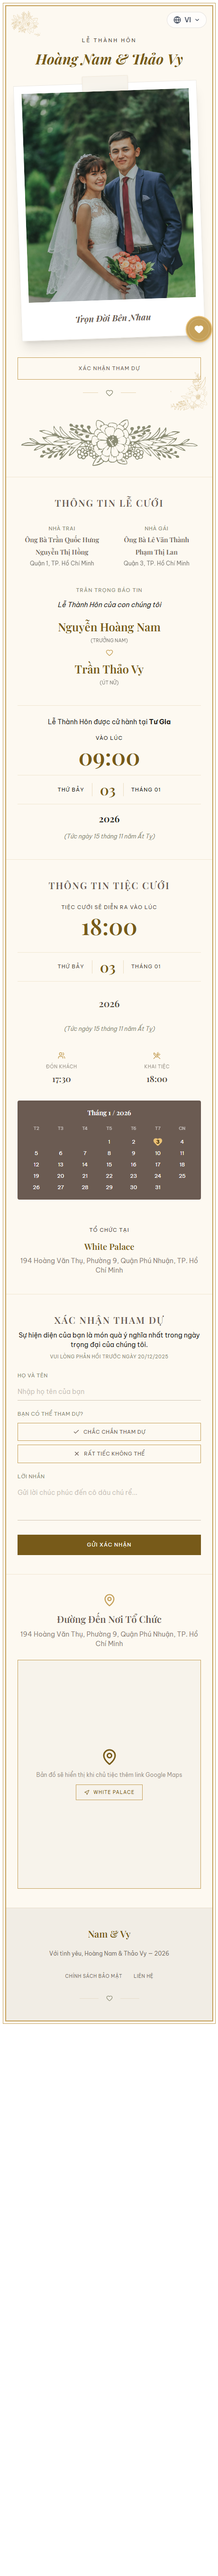
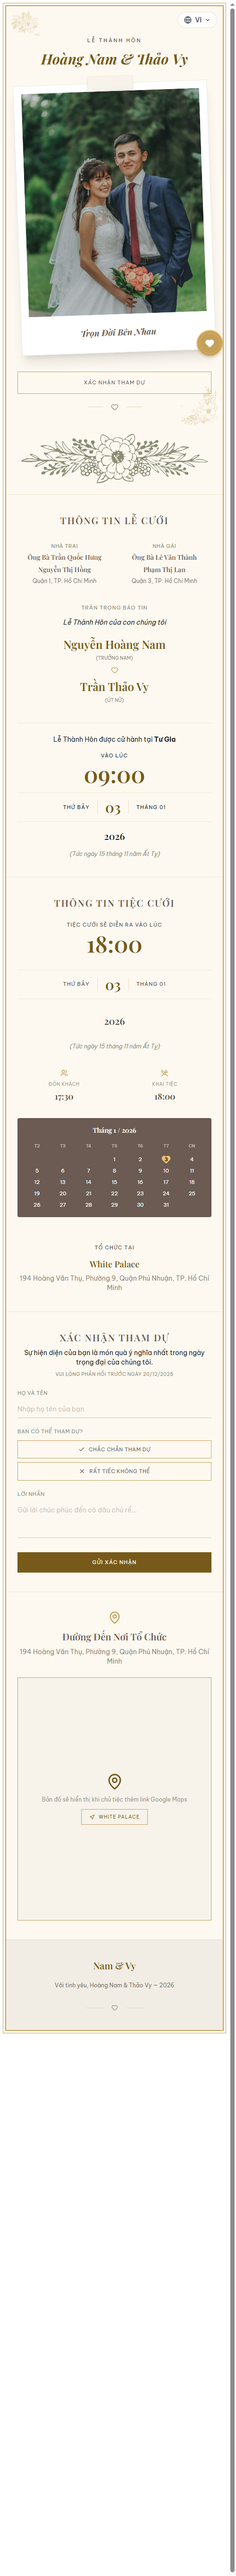
feat: shared calendar hook + font/README cleanup for wedding-4
- Add _shared/useCalendarMonth.ts: computes a month's calendar grid
  (leading blanks, days-in-month, weekday-of-day) from year+month, so
  templates stop hand-deriving these by mental math. Wedding-4 now
  calls it instead of the two manually-computed CALENDAR_LEAD_OFFSET/
  CALENDAR_DAYS_IN_MONTH constants.
- Verify Playfair Display + Be Vietnam Pro render Vietnamese diacritics
  correctly (checked via 2x zoomed screenshot) and document the finding
  plus a concrete list of risky script fonts to avoid in wedding/README.md.
- Expand wedding/README.md into a fuller spec covering the single-card
  layout, the symmetric groom/bride-family grid rule (corrected — it
  must stay 2 columns even on mobile), required Google Maps section,
  and the selectable-track music player pattern, so future template
  work in this category has a clear checklist to follow.
- Remove the placeholder "Chính Sách Bảo Mật"/"Liên Hệ" footer links
  (dead '#' anchors) and their unused i18n fields.

diff --git a/src/data/Template/wedding/Wedding-4/index.tsx b/src/data/Template/wedding/Wedding-4/index.tsx
@@ -5,6 +5,7 @@ import { deepMerge } from '../../../../utils/deepMerge';
 import { toGoogleMapsEmbedUrl } from '../../../../utils/googleMaps';
 import LanguageSwitcher, { useTemplateLang } from '../../_shared/LanguageSwitcher';
 import Reveal from '../../_shared/Reveal';
+import { useCalendarMonth } from '../../_shared/useCalendarMonth';
 import viJson from './i18n/vi.json';
 import enJson from './i18n/en.json';
 import zhJson from './i18n/zh.json';
@@ -19,9 +20,10 @@ type Lang = (typeof SUPPORTED_LANGS)[number];
 const translations: Record<Lang, typeof viJson> = { vi: viJson, en: enJson, zh: zhJson, ko: koJson };
 interface Props { lang?: string }
 
-// Lịch tháng 01/2026: ngày 1 rơi vào Thứ Năm → cột tuần bắt đầu Thứ Hai nên có 3 ô trống đầu bảng
-const CALENDAR_LEAD_OFFSET = 3;
-const CALENDAR_DAYS_IN_MONTH = 31;
+// Ngày cưới thật dùng để tính lịch mini — đổi 2 số này khi đổi ngày cưới, useCalendarMonth
+// tự tính đúng thứ trong tuần + số ô trống đầu bảng, không cần tự nhẩm tay.
+const WEDDING_YEAR = 2026;
+const WEDDING_MONTH = 1; // 1–12
 
 export default function Wedding4({ lang = 'vi' }: Props) {
   const { activeLang, setActiveLang } = useTemplateLang(lang as Lang, SUPPORTED_LANGS);
@@ -32,9 +34,7 @@ export default function Wedding4({ lang = 'vi' }: Props) {
   const [attending, setAttending] = useState<'yes' | 'no' | null>(null);
 
   const highlightDay = Number(t.events.day);
-  const calendarDays = Array.from({ length: CALENDAR_LEAD_OFFSET }, () => null).concat(
-    Array.from({ length: CALENDAR_DAYS_IN_MONTH }, (_, i) => i + 1),
-  );
+  const { cells: calendarDays } = useCalendarMonth({ year: WEDDING_YEAR, month: WEDDING_MONTH });
 
   // ── Danh sách nhạc nền — khách bấm chọn 1 bài trong list thay vì chỉ 1 bài autoplay cố định.
   // `src` để trống cho tới khi chủ tiệc tự thêm link file mp3 qua panel tùy chỉnh (giống cách
@@ -341,11 +341,7 @@ export default function Wedding4({ lang = 'vi' }: Props) {
             {/* Footer */}
             <Reveal variant="fade" as="footer" data-section="footer" className="bg-[#f1ede5] border-t border-[#C5A059]/20 flex flex-col items-center gap-2 py-10 px-6">
               <span data-field="footer.brand" className="font-display text-xl text-[#775a19] mb-3">{t.footer.brand}</span>
-              <p data-field="footer.tagline" className="text-xs text-center text-[#4e4639]/80 mb-6">{t.footer.tagline}</p>
-              <div className="flex gap-6">
-                <a data-field="footer.privacy" className="text-[10px] uppercase tracking-wider text-[#4e4639]/80 hover:text-[#775a19] transition-colors" href="#">{t.footer.privacy}</a>
-                <a data-field="footer.contact" className="text-[10px] uppercase tracking-wider text-[#4e4639]/80 hover:text-[#775a19] transition-colors" href="#">{t.footer.contact}</a>
-              </div>
+              <p data-field="footer.tagline" className="text-xs text-center text-[#4e4639]/80">{t.footer.tagline}</p>
               <div className="mt-6 flex items-center gap-4">
                 <div className="w-10 h-px bg-[#C5A059]/20" />
                 <Heart aria-hidden className="w-3.5 h-3.5 text-[#8B8C74]" />

diff --git a/src/data/Template/_shared/useCalendarMonth.ts b/src/data/Template/_shared/useCalendarMonth.ts
@@ -1,0 +1,60 @@
+/**
+ * ─── useCalendarMonth — tự tính lưới lịch tháng từ 1 ngày cụ thể ─────────────────
+ *
+ * Dùng khi template cần vẽ 1 khối lịch mini (kiểu "Save the Date" / lịch tháng
+ * highlight ngày cưới) — chỉ cần truyền năm + tháng, hook tự tính đúng:
+ *   - Ô trống cần chèn trước ngày 1 (để cột "Thứ" thẳng hàng)
+ *   - Số ngày thật của tháng đó (28-31, tự xử lý năm nhuận)
+ *   - Thứ trong tuần của bất kỳ ngày nào trong tháng
+ *
+ * Trước đây các template tự nhẩm tay 2 hằng số này (vd `CALENDAR_LEAD_OFFSET = 3`
+ * kèm comment giải thích "ngày 1 rơi vào Thứ Năm...") — dễ tính sai khi đổi ngày
+ * cưới và không ai kiểm chứng lại. Hook này thay hoàn toàn phần tính tay đó bằng
+ * `Date` chuẩn của JS.
+ *
+ * Cách dùng:
+ *   const { cells } = useCalendarMonth({ year: 2026, month: 1 }); // tháng 1-12
+ *   {cells.map((day, i) => day === null ? <span key={i} /> : <span key={i}>{day}</span>)}
+ */
+import { useMemo } from 'react';
+
+export interface CalendarMonthOptions {
+  /** Năm đầy đủ, vd 2026 */
+  year: number;
+  /** Tháng 1–12 (KHÔNG phải 0–11 kiểu `Date` gốc của JS — cố ý để gọi hook cho tự nhiên) */
+  month: number;
+  /** 1 = tuần bắt đầu Thứ Hai (chuẩn lịch Việt Nam, mặc định). 0 = tuần bắt đầu Chủ Nhật. */
+  weekStartsOn?: 0 | 1;
+}
+
+export interface CalendarMonthResult {
+  /** Số ngày thật của tháng (đã tự xử lý năm nhuận) */
+  daysInMonth: number;
+  /** Số ô trống cần chèn trước ngày 1 để đúng cột thứ trong tuần */
+  leadOffset: number;
+  /** Toàn bộ ô lịch theo đúng thứ tự hiển thị (7 cột/hàng) — `null` = ô trống đầu bảng */
+  cells: (number | null)[];
+  /** Thứ trong tuần (0=Chủ Nhật..6=Thứ Bảy, chuẩn `Date.getDay()`) của 1 ngày trong tháng này */
+  weekdayOf: (day: number) => number;
+}
+
+export function useCalendarMonth({
+  year,
+  month,
+  weekStartsOn = 1,
+}: CalendarMonthOptions): CalendarMonthResult {
+  return useMemo(() => {
+    const firstWeekday = new Date(year, month - 1, 1).getDay(); // 0=CN..6=T7
+    const daysInMonth = new Date(year, month, 0).getDate(); // ngày 0 của tháng sau = ngày cuối tháng này
+    const leadOffset = weekStartsOn === 1 ? (firstWeekday + 6) % 7 : firstWeekday;
+
+    const cells: (number | null)[] = [
+      ...Array.from({ length: leadOffset }, () => null),
+      ...Array.from({ length: daysInMonth }, (_, i) => i + 1),
+    ];
+
+    const weekdayOf = (day: number) => new Date(year, month - 1, day).getDay();
+
+    return { daysInMonth, leadOffset, cells, weekdayOf };
+  }, [year, month, weekStartsOn]);
+}

diff --git a/src/data/Template/wedding/README.md b/src/data/Template/wedding/README.md
@@ -146,15 +146,45 @@ imageSlots: [
 ## Lưu ý thiết kế đặc biệt cho Wedding
 
 - **Countdown timer:** Bắt buộc phải có — tính từ `Date.now()` đến `weddingDate` trong vi.json
-- **Nhạc nền:** Optional nhưng rất được yêu thích — nên có nút bật/tắt rõ ràng
+- **Nhạc nền:** Optional nhưng rất được yêu thích. Ưu tiên kiểu **list nhạc cho khách tự
+  chọn bài** (xem `Wedding-4/index.tsx` — nút tròn nổi mở panel liệt kê track, bấm 1 bài
+  để phát/dừng) thay vì chỉ 1 bài autoplay cố định — sinh động hơn và khách có thể đổi
+  bài nếu không thích bài đang phát. `src` từng bài để trống sẵn trong `i18n/*.json`, chủ
+  tiệc tự điền link file mp3 sau qua panel tùy chỉnh (giống hệt cơ chế `mapUrl`, không
+  cần thêm capability upload nào mới). Nút nổi đặt góc **dưới-TRÁI** (`fixed bottom-5
+  left-5`) — góc dưới-phải đã bị badge "Made with vngoweb" của `PublicSitePage.tsx` chiếm
+  cố định trên MỌI site đã publish (`fixed bottom-5 right-5`), đặt cùng chỗ sẽ đè lên nhau.
 - **Floral decoration:** Dùng SVG hoặc PNG hoa lá trang trí góc — đặc trưng của thiệp cưới
 - **Animation nhẹ:** Fade-in, float, confetti — tạo cảm xúc khi mở thiệp lần đầu
 - **Print-friendly:** Một số user muốn in ra — tránh nền tối, background ảnh lớn
-- **Font:** Chỉ dùng font đã load sẵn toàn cục ở `index.html` gốc — `font-display` (Playfair
-  Display, serif sang trọng, đủ dấu tiếng Việt) cho tên đôi/tiêu đề, `font-sans`/`font-inter`
-  (Be Vietnam Pro) cho phần thân. KHÔNG tự thêm `<link>` Google Fonts khác (Cormorant Garamond,
-  Great Vibes...) trong `index.tsx` — React component không có chỗ nào đáng tin cậy để inject
-  vào `<head>`, và mỗi font thêm riêng cho 1 template sẽ không xuất hiện khi site đã publish.
+- **Font — chỉ dùng 2 font đã load sẵn toàn cục ở `index.html` gốc, đã tự kiểm tra tận
+  mắt (chụp màn hình phóng to @2x, dấu thanh/dấu mũ tiếng Việt không vỡ, không tofu) nên
+  yên tâm dùng cho MỌI template wedding tiếp theo:**
+  - `font-display` (Playfair Display) — cho tên đôi/tiêu đề lớn, chỉ load sẵn 2 style:
+    normal weight 600/700/800/900 và **italic CHỈ ở weight 700**. Dùng `italic` mà không
+    ép `font-bold`/`font-normal` cụ thể là an toàn (trình duyệt tự khớp về weight 700
+    italic có sẵn); đừng ép `font-weight` nhẹ hơn cho chữ `italic` vì face đó không tồn
+    tại, trình duyệt sẽ phải chọn lại theo thuật toán riêng, không kiểm soát được.
+  - `font-sans` / `font-inter` (Be Vietnam Pro) — cho toàn bộ phần thân, font thiết kế
+    riêng cho tiếng Việt nên luôn an toàn ở mọi weight đã load (400/500/600/700).
+  - **TUYỆT ĐỐI không tự thêm `<link>` Google Fonts khác** (Cormorant Garamond, Great
+    Vibes, Dancing Script, Alex Brush, Sacramento, Parisienne, Playball...) trong
+    `index.tsx` dù trông "sang" hơn cho thiệp cưới — React component không có chỗ nào
+    đáng tin cậy để inject vào `<head>` (không xuất hiện khi site đã publish), và phần
+    lớn font script/cursive kiểu Tây trên Google Fonts **không có bảng chữ Việt** (chỉ
+    hỗ trợ Latin cơ bản) → chữ có dấu sẽ tự động rớt xuống font dự phòng giữa chừng, vỡ
+    layout ngay chỗ chữ có dấu. Nếu thật sự cần thêm 1 font mới cho cả hệ thống, phải
+    thêm vào `<link>` chung ở `index.html` gốc VÀ tự kiểm tra bằng cách chụp màn hình
+    phóng to như trên trước khi coi là xong — không suy đoán qua tên font.
+- **Lịch mini "Save the Date":** dùng hook dùng chung `useCalendarMonth` (`_shared/`,
+  xem `_shared/README.md` mục "Cách dùng `useCalendarMonth`") để tính ô trống đầu bảng +
+  số ngày trong tháng — KHÔNG tự nhẩm tay bằng hằng số cố định như `Wedding-4` bản đầu
+  (dễ tính sai khi đổi ngày cưới, không ai kiểm chứng lại).
+- **Bản đồ đường đi — BẮT BUỘC, không phải optional dù bảng "Sections" bên dưới đánh dấu
+  ✅:** khách đọc thiệp cần biết đường tới nơi tổ chức thật. Nhúng Google Maps qua
+  `toGoogleMapsEmbedUrl` (xem `.claude/skills/template-rules/SKILL.md` mục 1) với fallback
+  đẹp khi `mapUrl` rỗng — không để trống trắng, tối thiểu phải có địa chỉ dạng chữ +
+  nút "chỉ đường" mở Google Maps search theo địa chỉ đó.
 - **Responsive:** 100% khách xem trên mobile qua Zalo — tối ưu 360px-430px trước hết
 - **Không cần auth:** Thiệp cưới là public URL — không cần đăng nhập để xem
 
@@ -174,14 +204,22 @@ hướng này (xem chi tiết + rationale đầy đủ ở `Wedding-4/DESIGN.md`
    render preview desktop qua 1 pane có thể bị co/scale để vừa layout editor — `vw` sẽ tính
    theo bề ngang cửa sổ trình duyệt thật rồi bị scale chồng thêm lần nữa, ra kích thước sai
    khác nhau giữa marketplace preview / editor / site đã publish. Dùng 1 giá trị cố định
-   (vd `sm:w-105` = 420px) cho kết quả nhất quán ở mọi nơi.
+   (`Wedding-4` dùng `sm:w-120` = 480px, đã tăng từ 420px ban đầu theo phản hồi "nhìn vẫn
+   nhỏ") cho kết quả nhất quán ở mọi nơi.
 2. **Không dùng breakpoint `sm:`/`md:`/`lg:` cho layout BÊN TRONG khung thiệp** — các
    breakpoint này tính theo viewport thật của trình duyệt chứ không phải bề rộng khung
    thiệp, nên sẽ kích hoạt sai (vd bật `grid-cols-2` cho desktop) ngay cả khi khung thiệp
    vẫn đang hẹp ~400px. Chỉ dùng breakpoint đúng 1 chỗ duy nhất: khai báo bề rộng khung.
-3. **Grid nhiều cột kiểu trang rộng phải đổi thành xếp dọc 1 cột** (nhà trai/nhà gái, danh
-   sách liên hệ...) — ở bề rộng ~370-400px sau khi trừ padding, 2 cột cạnh nhau làm tên
-   riêng/số điện thoại vỡ dòng xấu. Chỉ giữ 2 cột cho cặp số liệu thật ngắn (giờ/ngày).
+3. **Khối "2 nhà thông gia" (Nhà Trai/Nhà Gái) LUÔN LUÔN là lưới 2 cột đối xứng — kể cả
+   trên mobile.** Đây là yêu cầu rõ ràng, đã sửa lại từ 1 bản nháp trước đó lỡ gộp về
+   1 cột (tưởng nhầm là áp dụng chung quy tắc "gộp cột cho grid hẹp" bên dưới) — 2 nhà
+   đứng lệch cao thấp nhìn rất xấu, đối xứng mới đúng tinh thần thiệp cưới truyền thống.
+   Cứ để tên dài tự xuống dòng trong cột của nó (`grid grid-cols-2 gap-3`, text-sm trở
+   xuống), không ép về 1 cột chỉ vì cột hẹp.
+   Các grid nhiều cột KHÁC không mang tính "cặp đối xứng" (vd danh sách liên hệ rời rạc,
+   grid ảnh...) thì vẫn áp dụng quy tắc chung: đổi về xếp dọc 1 cột nếu bề rộng cột quá
+   hẹp để đọc thoải mái. Cặp số liệu thật ngắn (giờ/ngày, đón khách/khai tiệc) vẫn giữ
+   2 cột bình thường vì đủ ngắn để không vỡ dòng.
 
 ---
 

diff --git a/src/data/Template/_shared/README.md b/src/data/Template/_shared/README.md
@@ -14,6 +14,7 @@ Khác với `src/components/` (UI của app vngoweb), code ở đây render
 |------|-----------|
 | `LanguageSwitcher.tsx` | Nút 🌐 chuyển ngôn ngữ trên header + hook `useTemplateLang` |
 | `Reveal.tsx` | Hiệu ứng xuất hiện/ẩn đi theo viewport (scroll reveal 2 chiều, stagger, tôn trọng `prefers-reduced-motion`) — KHÔNG bọc quanh phần tử chứa con `fixed`/`sticky` |
+| `useCalendarMonth.ts` | Tự tính lưới lịch tháng (ô trống đầu bảng, số ngày, thứ trong tuần) từ năm+tháng — dùng cho khối lịch mini "Save the Date" thay vì tự nhẩm tay |
 
 ## Cách dùng `LanguageSwitcher`
 
@@ -42,3 +43,30 @@ Quy tắc:
 - Prop `lang` từ editor luôn thắng: khi editor đổi ngôn ngữ preview, hook tự
   reset lựa chọn nội bộ của khách.
 - Template chỉ có 1 ngôn ngữ → component tự ẩn, không cần điều kiện bên ngoài.
+
+## Cách dùng `useCalendarMonth`
+
+```tsx
+import { useCalendarMonth } from '../../_shared/useCalendarMonth';
+
+// Đổi ngày cưới → chỉ sửa 2 số này, hook tự tính lại đúng thứ + số ô trống,
+// KHÔNG tự nhẩm tay "ngày 1 rơi vào thứ mấy" như trước.
+const WEDDING_YEAR = 2026;
+const WEDDING_MONTH = 1; // 1–12
+
+const { cells } = useCalendarMonth({ year: WEDDING_YEAR, month: WEDDING_MONTH });
+
+// cells: (number | null)[] — null là ô trống đầu bảng, render đúng thứ tự 7 cột
+<div className="grid grid-cols-7">
+  {cells.map((day, i) =>
+    day === null ? <span key={i} /> : <span key={i}>{day}</span>,
+  )}
+</div>
+```
+
+Quy tắc:
+
+- `month` nhận 1–12 như người thật hay nói (KHÔNG phải 0–11 kiểu `Date` gốc của JS).
+- Tự xử lý năm nhuận và số ngày thật của từng tháng — không cần tự tra bảng.
+- Ngày highlight (ngày cưới) vẫn là `Number` từ i18n như cũ (vd `Number(t.events.day)`),
+  hook chỉ lo phần vẽ lưới; không trộn logic hiển thị/dịch vào hook.
